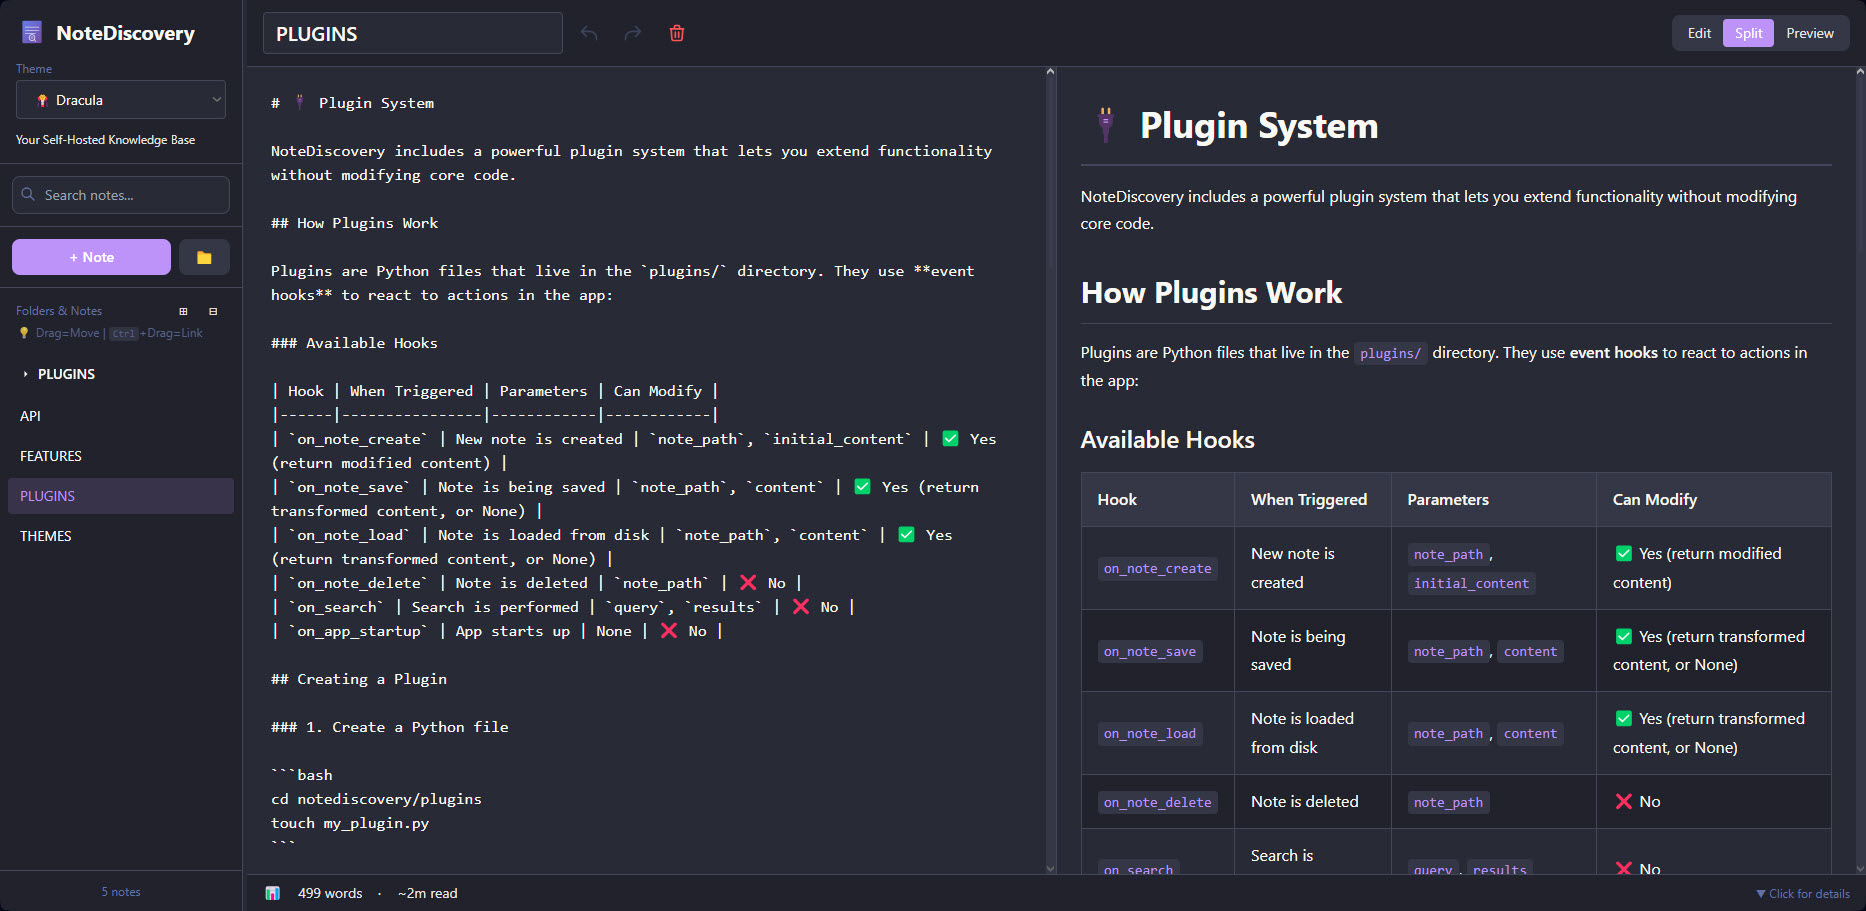
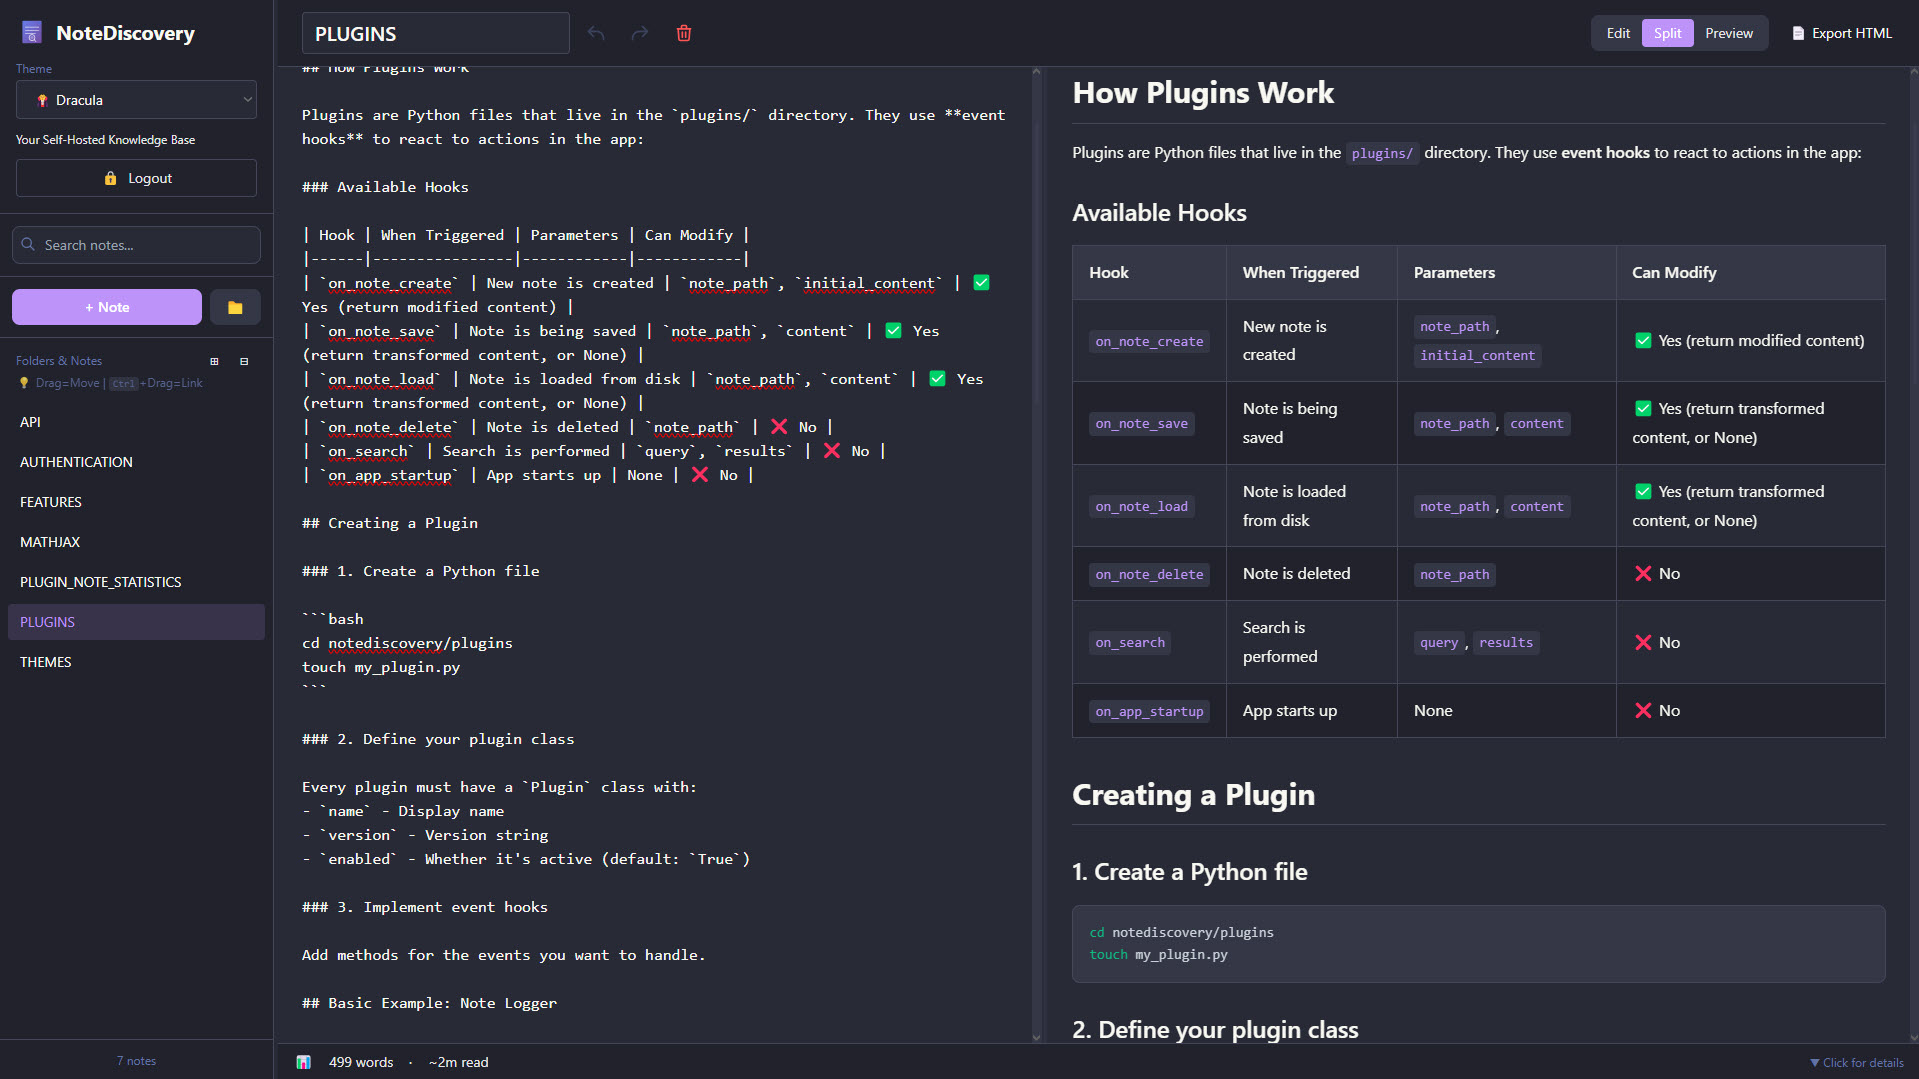
updated screenshot and docs

diff --git a/documentation/AUTHENTICATION.md b/documentation/AUTHENTICATION.md
@@ -2,9 +2,9 @@
 
 ## ⚠ **IMPORTANT: Default Password Warning**
 
-> **The default `config.yaml` includes authentication enabled with password: `admin`**
+> **The default `config.yaml` includes authentication disabled by default, with password: `admin`**
 >
-> 🔴 **CHANGE THIS IMMEDIATELY if you're exposing NoteDiscovery to a network!**
+> 🔴 **CHANGE THIS if you're exposing NoteDiscovery to a network!**
 >
 > The default configuration is provided for **quick testing only**. Follow the setup guide below to set your own secure password and secret key.
 
@@ -19,8 +19,6 @@ NoteDiscovery includes a simple, secure authentication system for single-user de
 - ✅ **Single User** - Perfect for personal/self-hosted use
 - ✅ **Secure** - Passwords hashed with bcrypt
 - ✅ **Session-based** - Stay logged in for 7 days (configurable)
-- ✅ **Theme-aware** - Login page matches your selected theme
-- ✅ **Simple Setup** - Just 3 steps to enable
 
 ---
 
@@ -31,7 +29,7 @@ NoteDiscovery includes a simple, secure authentication system for single-user de
 - Default password is `admin`
 - Default secret key is insecure
 
-**⚠ IMPORTANT:** For production or network-exposed deployments, **change both the password and secret key immediately**. Follow these steps:
+**⚠ IMPORTANT:** For production or network-exposed deployments, **change both the password and secret key immediately**.
 
 ---
 
@@ -142,56 +140,6 @@ Enter the password you chose in Step 2.
 
 ---
 
-## 🔐 Usage
-
-### Logging In
-
-1. Navigate to `http://localhost:8000`
-2. You'll be **automatically redirected** to the login page if not authenticated
-3. Enter your password (the one you generated in setup)
-4. Click "🔓 Unlock"
-5. You'll be redirected back to the main app
-
-**Note:** The login page **automatically inherits the theme** you selected in the main app. It uses the same theme loading system as the main app (fetches CSS from `/api/themes` and stores preference in localStorage as `noteDiscoveryTheme`).
-
-**What happens if I'm not logged in?**
-- 🌐 **Page requests** (like `/`, `/MATHJAX`, etc.) → **Automatically redirected to login page**
-- 🔌 **API requests** (like `/api/notes`) → **Return JSON error** `{"detail": "Not authenticated"}`
-
-This smart routing ensures:
-- ✅ Users always see the login page (never a JSON error)
-- ✅ API calls get proper JSON errors (for programmatic access)
-- ✅ No broken page loads or error messages
-
-### Logging Out
-
-**Option 1: Use the built-in logout button**
-
-A logout button (🔒 Logout) automatically appears in the sidebar header when authentication is enabled. Simply click it to log out.
-
-**Option 2: Navigate directly**
-
-Visit `http://localhost:8000/logout` in your browser.
-
-### Changing Password
-
-1. Generate a new password hash:
-   - **Docker**: `docker-compose exec notediscovery python generate_password.py`
-   - **Local**: `python generate_password.py`
-2. Update `password_hash` in `config.yaml` with the new hash
-3. Restart the application:
-   - **Docker**: `docker-compose restart`
-   - **Local**: Restart uvicorn
-4. All existing sessions will remain valid until they expire
-
-### Session Expiry
-
-- **Default**: 7 days (604800 seconds)
-- **Custom**: Change `session_max_age` in `config.yaml`
-- Sessions are cleared when you log out
-
----
-
 ## 🔒 Security Considerations
 
 ### ✅ What This Protects
@@ -211,7 +159,7 @@ This is a **simple authentication system** designed for **self-hosted, single-us
 
 ### 🛡 Best Practices
 
-1. **Use HTTPS** - Always run behind a reverse proxy (nginx, Caddy) with SSL/TLS
+1. **Use HTTPS** - Always run behind a reverse proxy (Traefik, nginx, Caddy) with SSL/TLS
 2. **Strong Password** - Use at least 12 characters with mixed case, numbers, and symbols
 3. **Unique Secret Key** - Never reuse secret keys across applications
 4. **Keep Config Secure** - Don't commit `config.yaml` with real credentials to version control
@@ -229,114 +177,3 @@ security:
 ```
 
 Restart the application, and authentication will be bypassed.
-
----
-
-## 🐛 Troubleshooting
-
-### "Invalid Password" Error
-
-- **Check password hash**: Ensure the hash in `config.yaml` matches your password
-- **Regenerate hash**: Run `python generate_password.py` again
-- **Check encoding**: Password must be UTF-8 encoded
-
-### "Not authenticated" Error
-
-- **Check session**: Your session may have expired (default: 7 days)
-- **Clear cookies**: Clear your browser cookies and log in again
-- **Check config**: Ensure `enabled: true` in `config.yaml`
-
-### Login Page Not Showing
-
-- **Check config**: Verify `enabled: true` in `config.yaml`
-- **Check routes**: Visit `/login` directly
-- **Check logs**: Look for errors in the console
-
-### Can't Access `/logout`
-
-- You must be logged in to access `/logout`
-- Clear your browser cookies manually if needed
-
----
-
-## 🎨 Customizing Login Page
-
-The login page (`frontend/login.html`) can be customized:
-
-- **Theme**: Automatically inherits the theme you selected in the main app (from localStorage)
-- **Logo**: Uses `/static/logo.svg`
-- **Styling**: Edit the CSS in the `<style>` section
-- **Content**: Modify the HTML directly
-- **Error Messages**: Displayed inline in red when login fails (no separate error page)
-
-**Note:** The theme selector is intentionally hidden on the login page to keep it clean. Users will see the theme they selected in the main app.
-
----
-
-## 📦 Docker Deployment
-
-When using Docker, mount your `config.yaml` with credentials:
-
-```yaml
-services:
-  notediscovery:
-    image: ghcr.io/yourusername/notediscovery:latest
-    volumes:
-      - ./config.yaml:/app/config.yaml
-      - ./data:/app/data
-    ports:
-      - "8000:8000"
-```
-
-**Security Note**: Don't build credentials into the Docker image. Always mount them as a volume.
-
----
-
-## 🤝 Multi-User Support
-
-This authentication system is designed for **single-user** deployments. If you need multi-user support:
-
-1. Run separate instances (one per user)
-2. Use Docker containers with different ports
-3. Use a reverse proxy for routing
-
-For enterprise/multi-user needs, consider:
-- OAuth 2.0 / OpenID Connect
-- Database-backed user management
-- Role-based access control (RBAC)
-
----
-
-## 📝 Technical Details
-
-### Password Hashing
-
-- **Algorithm**: bcrypt
-- **Rounds**: 12 (default)
-- **Salt**: Automatically generated per password
-
-### Session Management
-
-- **Storage**: Server-side session cookies
-- **Signing**: HMAC with secret key
-- **Security**: HttpOnly, SameSite=Lax
-- **Expiry**: Configurable (default 7 days)
-
-### Dependencies
-
-- `bcrypt` - Password hashing
-- `itsdangerous` - Session signing
-- `starlette` - Session middleware
-
----
-
-## 📚 Additional Resources
-
-- [bcrypt Documentation](https://github.com/pyca/bcrypt/)
-- [FastAPI Security](https://fastapi.tiangolo.com/tutorial/security/)
-- [OWASP Authentication Cheatsheet](https://cheatsheetseries.owasp.org/cheatsheets/Authentication_Cheat_Sheet.html)
-
----
-
-**Need Help?** Open an issue on [GitHub](https://github.com/yourusername/notediscovery/issues) or consult the [README.md](README.md).
-

diff --git a/README.md b/README.md
@@ -48,11 +48,11 @@ NoteDiscovery is a **lightweight, self-hosted note-taking application** that put
 
 Use the pre-built image directly from GHCR - no building required!
 
-> **💡 Tip**: Always use `ghcr.io/gamosoft/notediscovery:latest` to get the newest features and fixes. Images are automatically built when PRs are merged to main.
+> **💡 Tip**: Always use `ghcr.io/gamosoft/notediscovery:latest` to get the newest features and fixes.
 
 > **📁 Important - Volume Mapping**: The container needs local folders/files to work:
 > - **Required**: `data` folder - **Your personal notes** will be stored here (create an empty folder)
-> - **Required**: `themes` folder with theme `.css` files (at least light.css and dark.css)
+> - **Required**: `themes` folder with theme `.css` files (at least a single theme must exist)
 > - **Required**: `plugins` folder (can be empty for basic functionality)
 > - **Required**: `config.yaml` file (needed for the app to run)
 > - **Optional**: `documentation` folder - If you cloned the repo, mount this to view app docs inside NoteDiscovery
@@ -86,7 +86,7 @@ Use the pre-built image directly from GHCR - no building required!
 >    # The documentation/ folder has app docs you can optionally mount
 >    ```
 
-> **🔐 Security Note**: Authentication is **enabled by default** with password `admin`. For testing/local use, this is fine. If exposing to a network, **change the password immediately** - see [AUTHENTICATION.md](documentation/AUTHENTICATION.md) for instructions.
+> **🔐 Security Note**: Authentication is **disabled by default** with password `admin`. For testing/local use, this is fine. If exposing to a network, **change the password immediately** - see [AUTHENTICATION.md](documentation/AUTHENTICATION.md) for instructions on how to enable it.
 
 **Option 1: Docker Compose (Recommended)**
 
@@ -218,7 +218,7 @@ Once you've started NoteDiscovery, you'll find comprehensive guides on:
 # In your docker-compose.yml
 volumes:
   - ./data:/app/data              # Your personal notes
-  - ./documentation:/app/docs:ro  # Mount docs (read-only)
+  - ./documentation:/app/data/docs:ro  # Mount docs subfolder inside the data folder (read-only)
 ```
 
 Then access them at `http://localhost:8000` - the docs will appear as a `docs/` folder in the file browser!

diff --git a/documentation/API.md b/documentation/API.md
@@ -46,7 +46,7 @@ Content-Type: application/json
 }
 ```
 
-**Note:** When creating a new note, the `on_note_create` hook is triggered, allowing plugins (like Template Generator) to modify the initial content. The response includes the potentially modified content.
+**Note:** When creating a new note, the `on_note_create` hook is triggered, allowing plugins to modify the initial content. The response includes the potentially modified content.
 
 **Linux/Mac:**
 ```bash
@@ -241,11 +241,6 @@ All endpoints return JSON responses:
   "detail": "Error message"
 }
 ```
-
-## 🔑 Authentication
-
-Currently, no authentication is required. Suitable for self-hosted local environments.
-
 ---
 
 💡 **Tip:** Use the `/api` endpoint to get a live, self-documented list of all available endpoints!

diff --git a/documentation/FEATURES.md b/documentation/FEATURES.md
@@ -67,14 +67,6 @@
 - **Event hooks** - React to note saves, deletes, searches
 - **API access** - Full access to backend functionality
 
-### Example Use Cases
-- Git auto-sync
-- Note encryption
-- Export to PDF
-- Daily note creation
-- Backlinks tracking
-- Tag management
-
 ## 🔍 Search
 
 - **Full-text search** - Find notes by content
